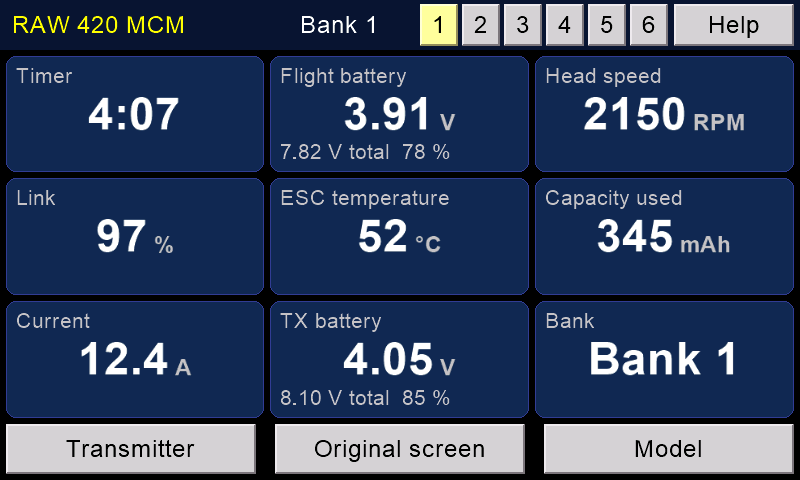
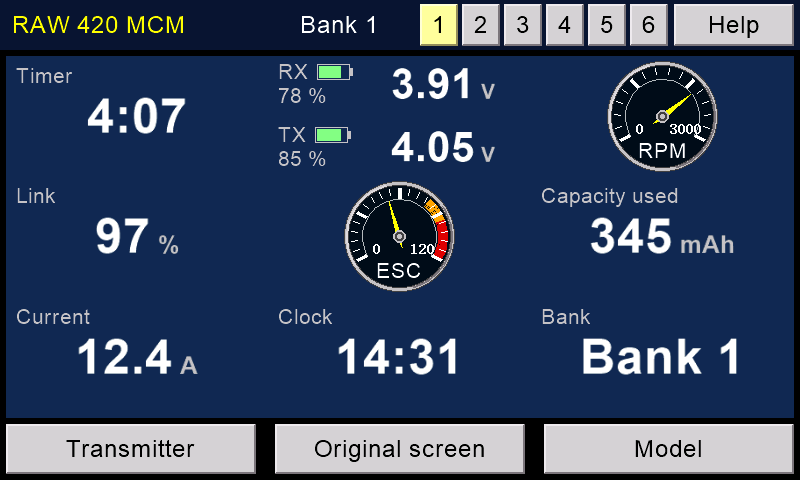
READMEs: round dials and red zones, six banks shared with the app, Switches and knobs, animations on every help page
The latest developments (transmitter 2.5.6 B143, screen 1.11.109; receiver 0.9.904): the flight screens' round dials with amber and red zones, four or six banks with the phone app following the transmitter's count, Rotorflight's Modes and Adjustments as one Switches and knobs page, the Rotorflight menu as it is now (Easy tuning, Travel extents, First-time basics), and an animation for every help page plus ten under Fix problems. The screen pictures redrawn by the screen's own code: the nine-page tour, six Rotorflight pages, six themes, the nine-box screen, and a new one of round dials.

Claude-Session: https://claude.ai/code/session_01BWKhHquFdybV97yeVjmPQe

diff --git a/README.md b/README.md
@@ -3,7 +3,7 @@
 **A free, open-source radio control system for model aircraft. You build it yourself: a 16-channel transmitter, a receiver and a phone app.**
 
 <p align="center">
-  <img src="docs/images/tx-screens-tour.png" width="900" alt="Nine screens of the Version 2 transmitter: the front page during a flight, a flight screen with big numbers, the Rotorflight menu, PIDs, the governor, an in-flight adjustment, the black box, the WiFi page and an update offer">
+  <img src="docs/images/tx-screens-tour.png" width="900" alt="Nine screens of the Version 2 transmitter: the front page during a flight, a defined front screen with round dials, the Rotorflight menu, PIDs, the governor, a knob on Switches and knobs, the black box, WiFi and an update offer">
 </p>
 <p align="center"><sub>Nine of the transmitter's screens, drawn by its own code. The numbers are sample values.</sub></p>
 
@@ -95,7 +95,7 @@ We checked the makers' own documents in October 2026. "We know of no other" mean
 <!-- TODO Malcolm: compare.md notes the Battery, Black box and Calibrate pages on the transmitter (B88) had not been tried on hardware on 10 Oct. Confirm before the site calls them proven. -->
 
 <p align="center">
-  <img src="docs/images/tx-rotorflight-six.png" width="900" alt="Six Rotorflight pages on the transmitter: the options menu with Ready to arm, PIDs, rates, the governor, an in-flight adjustment on a switch, and Rotorflight's command line">
+  <img src="docs/images/tx-rotorflight-six.png" width="900" alt="Six Rotorflight pages on the transmitter: the menu with Ready to arm, PIDs, rates, the governor, a switch on Switches and knobs, and Rotorflight's command line">
 </p>
 <p align="center"><sub>Rotorflight set-up on the transmitter itself. It needs a Version 2 receiver.</sub></p>
 
@@ -108,9 +108,10 @@ Other systems have most of these too.
 - **One-button updates from the internet** for the whole transmitter. It can update the receiver too.
 - **Updates that protect your models**: a firmware that would read your models differently is refused, and the old one comes back by itself.
 - **The link in detail**: packets a second, lost packets, longest gap, swaps between the receiver's radios, and a scan of the 2.4 GHz band for interference.
-- **Your own flight screens**: six designs of up to nine boxes, and twelve colour themes.
+- **Your own flight screens**: six designs of up to nine boxes, in big digits or round dials with amber and red zones, and twelve colour themes.
+- **Four banks or six** (flight modes), as Rotorflight has six. The phone app follows the transmitter's count.
 - **Curves of 3, 5, 7 or 9 points** for every channel in every bank, straight, smoothed or exponential; every point keeps its height when you change the count. **Eight three-position switches**, any of them doing any job; the four on the front can be knobs.
-- **Help on every page**, on the transmitter itself.
+- **Help on every page**, on the transmitter itself, each with an **animation**: a short film of the page in use, with a spoken voice. Ten more, under **Fix problems**, cure common helicopter problems.
 - **Spoken messages**, log files, model pictures sent from your phone, and Pong for rainy days.
 - **Safety first: nothing changes in flight.** No transmitter update, file transfer or restart starts while a model is connected. A receiver update runs only with the safety on, and the receiver refuses while armed. WiFi and Bluetooth switch off whenever the model could fly.
 
@@ -167,7 +168,7 @@ Prices are approximate retail prices in October 2026. LDRC prices are for parts 
 | Updates the receiver through the transmitter | **Yes** | Partly: the receiver's own WiFi page | **Yes** | ? | **Yes** |
 | Help on every page, on the radio | **Yes** | Not found: online manual | ? | ? | **Yes**: a (?) on every setting |
 | Scripts and add-on apps | No, by choice | **Yes**: Lua | **Yes**: Lua | **Yes**: apps on iX20 | **Yes**: app store |
-| Mixer depth | 16 channels, 4 flight modes, 32 mixes | Much deeper | Deep | Deep | Made for helicopters |
+| Mixer depth | 16 channels, 4 or 6 flight modes, 32 mixes | Much deeper | Deep | Deep | Made for helicopters |
 | Curve points per channel | 3, 5, 7 or 9, every point remembered | Up to 17 | ? | ? | ? |
 | Any switch, any job | **Yes**: 8 three-position switches, the front four can be knobs | **Yes** | **Yes** | **Yes** | **Yes** |
 
@@ -176,7 +177,7 @@ Prices are approximate retail prices in October 2026. LDRC prices are for parts 
 | | LDRC V2 | EdgeTX + ExpressLRS | FrSky Ethos | Spektrum | Mikado VBar Control |
 |---|---|---|---|---|---|
 | Rotorflight telemetry on the transmitter | **Yes** | **Yes** | **Yes** | Partly | **Yes**, for VBar units |
-| Rotorflight set-up from the transmitter | **Yes**: PIDs, rates, governor, rescue, servos, mixer, filters, adjustments, switches, copy a bank, battery, black box | **Yes**: PIDs, rates, governor, rescue, servos, mixer, filters, battery, ESCs of 8 makes (Rotorflight's Lua scripts) | **Yes, and wider**: over 80 pages, ESC tools | Not found | **Yes**, for VBar units |
+| Rotorflight set-up from the transmitter | **Yes**: Easy tuning, PIDs, rates, governor, rescue, servos, travel extents, filters, switches and knobs, copy a bank, battery, black box, first-time basics | **Yes**: PIDs, rates, governor, rescue, servos, mixer, filters, battery, ESCs of 8 makes (Rotorflight's Lua scripts) | **Yes, and wider**: over 80 pages, ESC tools | Not found | **Yes**, for VBar units |
 | Back up Rotorflight on the transmitter, restore exactly | **Yes**: every bank; not ports, LED, GPS or ESC | Not in the Rotorflight scripts | No | n/a | A separate app, for VBar |
 | Edit with the model switched off, send later | **Yes** | Not found | Not found | n/a | Not found |
 | Phone app for Rotorflight on iPhone and Android | **Yes**, free | Partly: Rotorflight's configurator on Android (app, or Chrome at cfg.rotorflight.org), by USB cable; no iPhone app | as EdgeTX | n/a (an app for its own flybarless units) | n/a (set-up is on the radio) |
@@ -218,7 +219,7 @@ Prices are approximate retail prices in October 2026. LDRC prices are for parts 
 - **1, 2 or 3 radios** in a receiver, with automatic switching.
 - **Outputs:** CRSF (250 frames a second by default), SBUS, IBUS, PPM.
 - **Measured on the first Version 2 flight** (Goblin RAW 420, 5 October 2026): 491 packets a second on average, 0.21 % of packets lost, longest gap 15 ms.
-- **90 model memories**, backups as many as the card holds, 4 banks (flight modes) per model, 32 mixes, 3 rates, 8 macros, help on every page (60 help texts).
+- **90 model memories**, backups as many as the card holds, 4 or 6 banks (flight modes) per model, 32 mixes, 3 rates, 8 macros, help on every page (66 help pages, each with an animation).
 
 <!-- TODO Malcolm: 90 memories: the code (MAXMODELNUMBER 91: the Models page, automatic model selection and the buddy match run 1-90) and MODELS.TXT say 90. Only the Check IDs page (Model_IDs.h) scans 1-89: please check memory 90 shows there. -->
 

diff --git a/TXV2/README.md b/TXV2/README.md
@@ -23,7 +23,7 @@
 
 **Flying**
 - 16 channels. Any stick, switch or knob can drive any channel.
-- 4 banks (flight modes), each with its own curves, trims and mixes.
+- 4 banks (flight modes), or 6 with **Six banks** on (Model options), each with its own curves, trims and mixes. With a Version 2 receiver, the phone app follows the transmitter's count.
 - Curves of 3, 5, 7 or 9 points for every channel in every bank (every point keeps its height when you change the count), 3 rates, 32 mixes, 8 timed macros, servo speed, subtrim, reverse, failsafe.
 - **Eight switches, any job:** banks, motor, safety, rates, buddy, or the input of any channel 5–16.
 - **Wireless buddy box** with no extra hardware, and a "nudge" mode for the instructor.
@@ -35,16 +35,21 @@
 - **Send a model memory to another transmitter** over the radio link. A Version 1 transmitter can send its models to a Version 2 over the air (tested), and two Version 2s swap them.
 
 **The screen**
-- **Your own flight screens:** six designs on tabs, each with up to nine boxes of big numbers.
+- **Your own flight screens:** six designs on tabs, each with up to nine boxes of big numbers or round dials, with amber and red zones.
 - **Twelve colour themes**, each one editable.
 - **Model pictures** sent from your phone by scanning a QR code.
-- **Help on every page**, spoken messages, log files, and Pong for rainy days.
+- **Help on every page**, each with an **animation** of the page in use, and ten more under **Fix problems**; spoken messages, log files, and Pong for rainy days.
+
+<img src="../docs/images/tx-defined-screen-dials.png" width="600" alt="A defined front screen of six round dials: the timer with hands, both batteries, head speed with a red zone from 2400 RPM, the link, ESC temperature, and capacity used with a red zone from 4000 mAh">
+
+<sub>A flight screen of round dials, each with its amber and red zones. Sample values.</sub>
+
 
 **Rotorflight on the transmitter** (needs a Version 2 receiver)
-- PIDs, rates, governor, rescue, servos, mixer, gyro filters, switches, copy a bank, battery, black box, calibrate.
+- Easy tuning, PIDs, rates, governor, rescue, servos, travel extents, filters, switches and knobs, copy a bank, battery, black box, calibrate, first-time basics.
 - **Back up the Rotorflight tune and set-up**, every bank, to the card, and put it back exactly. Ports, LED, GPS and ESC settings are not included.
 - **Edit with the model switched off.** The changes go across when it next connects.
-- With the receiver's USB cable to the flight controller: setting up in-flight adjustments (they then work without the cable), Rotorflight's command line, and the whole set-up saved to the card as text (Rotorflight's `diff all`).
+- With the receiver's USB cable to the flight controller: setting up the selectors and knobs on Switches and knobs (they then work without the cable), Rotorflight's command line, and the whole set-up saved to the card as text (Rotorflight's `diff all`).
 - The settings travel over Bluetooth from the screen to the receiver, never over the flying link, and only while the model is disarmed.
 
 <!-- TODO Malcolm: compare.md says Battery, Black box and Calibrate (B88) were not yet tried on hardware on 10 Oct. Confirm before release notes call them proven. -->
@@ -58,7 +63,7 @@
 - **The receiver can be updated through the transmitter.**
 - Nothing changes in flight. No transmitter update, file transfer or restart starts while a model is connected. A receiver update runs only with the safety on, and the receiver refuses while armed. WiFi and Bluetooth switch off whenever the model could fly.
 
-<img src="../docs/images/tx-rotorflight-six.png" width="900" alt="Six Rotorflight pages on the transmitter: the options menu with Ready to arm, PIDs, rates, the governor, an in-flight adjustment on a switch, and Rotorflight's command line">
+<img src="../docs/images/tx-rotorflight-six.png" width="900" alt="Six Rotorflight pages on the transmitter: the menu with Ready to arm, PIDs, rates, the governor, a switch on Switches and knobs, and Rotorflight's command line">
 
 <sub>Rotorflight set-up on the transmitter. Sample values.</sub>
 
@@ -72,7 +77,7 @@
 |---|---|
 | `TransmitterCode/` | The Teensy 4.1 firmware (PlatformIO). `include/` holds nearly all of it, one header per subject. `src/main.cpp` is set-up and the main loop |
 | `TransmitterCode/SD Examples/Teensy SD Example/` | What goes on the Teensy's microSD card |
-| `Help files for SD/` | The help texts (60): one for each page, and two kept for reference |
+| `Help files for SD/` | The help texts (68): one for each of the 66 help pages, and two kept for reference |
 | `Noises/` | The sounds: voice messages, prompts and sound effects |
 | `Circuits/` | The circuit boards as Proteus projects, with Gerbers in the `CADCAM` folders. `Transmitter - CADCAM` is the transmitter's main board. The `Receiver` and `SensorHub` folders are Version 1's receiver boards |
 | `STL files/` | The printed case. `STL files/V2/` holds the Version 2 parts. The rest are the Version 1 parts that Version 2 shares. STEP sources in `STL files/STEP files/` |

diff --git a/TXV2-Screen/README.md b/TXV2-Screen/README.md
@@ -1,6 +1,6 @@
 # The Version 2 transmitter's screen
 
-<img src="../docs/images/tx-defined-screen-9-boxes.png" width="600" alt="A flight screen with nine boxes: timer 4:07, flight battery 3.91 volts a cell, head speed 2150 RPM, link 97 per cent, ESC temperature 52 degrees, capacity used 345 mAh, current 12.4 amps, transmitter battery and bank">
+<img src="../docs/images/tx-defined-screen-9-boxes.png" width="600" alt="A flight screen with nine boxes: timer 4:07, both batteries at 3.91 and 4.05 volts a cell, head speed and ESC temperature as round dials, link 97 per cent, capacity used 345 mAh, current 12.4 A, the clock and the bank">
 
 <sub>A flight screen of your own: up to nine boxes, six designs on tabs. Drawn by this firmware's own code. Sample values.</sub>
 
@@ -9,7 +9,7 @@
 - **What the panel is:** an ESP32-S3 (WROOM-1-N4R8: 4 MB flash, 8 MB PSRAM), a 5-inch 800 × 480 display, GT911 touch, WiFi, Bluetooth, an NS4168 speaker amplifier, a microSD slot and a serial port on the back.
 - **Buy the N4R8 version.** Not Elecrow's 16 MB 5-inch IPS panel: its pins differ, and this firmware would show a black screen.
 - **What the firmware does:** it pretends to be the Nextion display that Version 1 used. The Teensy 4.1 sends the same display commands it always has (921,600 baud). The screen draws the transmitter's 76 pages from their definitions on its card, and answers with exactly the bytes a Nextion would.
-- **On top of that it has pages of its own:** updates from the internet, WiFi, themes, flight screens, the picture chooser, Rotorflight's command line, and Pong.
+- **On top of that it has pages of its own:** updates from the internet, WiFi, themes, flight screens with round dials, the picture chooser, Rotorflight's command line, the help pages' animations, and Pong.
 - **It is also the Bluetooth link to the receiver.** All Rotorflight editing on the transmitter goes over it, not over the flying link.
 - **Building a transmitter?** Start with [../TXV2/README.md](../TXV2/README.md) and [Build one](https://messiter.com/ldrc/build.html).
 

diff --git a/RXV2/README.md b/RXV2/README.md
@@ -17,7 +17,7 @@
 
 - **Drives a flight controller** on one wire: **CRSF** (the default, 250 frames a second), **SBUS**, **IBUS** or **PPM**.
 - **Sends Rotorflight telemetry** to the transmitter: flight-battery volts, current, capacity used, head speed, ESC temperature.
-- **Sets up Rotorflight** from the phone app (Bluetooth) or any browser (its own WiFi): wizards for a new helicopter and for tuning, PIDs, rates, governor, rescue, servos, filters, six banks, backups, flight recordings, a black box check.
+- **Sets up Rotorflight** from the phone app (Bluetooth) or any browser (its own WiFi): wizards for a new helicopter and for tuning, PIDs, rates, governor, rescue, servos, filters, switches and knobs, six banks (following a Version 2 transmitter's bank count), backups, flight recordings, a black box check.
 - **Lets a Version 2 transmitter edit Rotorflight** too, over Bluetooth.
 - **With a short USB-C cable to the flight controller** it can do almost everything Rotorflight's configurator does. Only flashing Rotorflight itself needs a computer. That includes the command line, in-flight adjustments, ports, and reading the black box.
   <!-- TODO Malcolm: confirm the app covers every Configurator 2.3.0 tab before saying "everything". -->

diff --git a/RXV2App/README.md b/RXV2App/README.md
@@ -16,7 +16,7 @@
 ## What it does
 
 - **Connect:** finds receivers and dongles nearby and shows their signal. One phone at a time per receiver.
-- **The receiver's own pages**, carried over Bluetooth: wizards, PIDs, rates, governor, rescue, servos, filters, black box, backups, simulator controls.
+- **The receiver's own pages**, carried over Bluetooth: wizards, PIDs, rates, governor, rescue, servos, filters, switches and knobs, black box, backups, simulator controls. With a Version 2 transmitter, the bank pages follow the transmitter's bank count.
 - **Reviews:** a recording of each model, made at every connection, to look through indoors with everything off. Edits made there are offered as *Send to model* at the next connection.
 - **Backups:** the whole Rotorflight set-up of each model, kept on the phone.
 - **Demos:** the whole app on made-up data, as a receiver, a dongle or a simulator interface.
